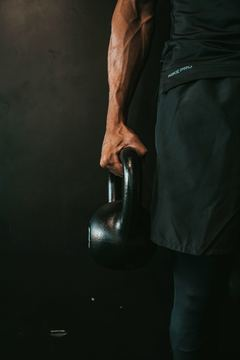
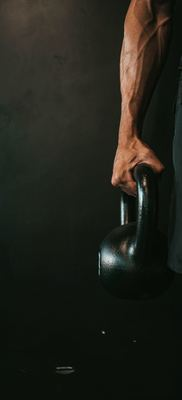
Version 1.7.24 - Accueil : message manuscrit selon le contexte, tuile active −25 %, fond Poigne recadré
Claude-Session: https://claude.ai/code/session_01D2bERWTgERYu2wXoWahCrG

diff --git a/js/programmes.js b/js/programmes.js
@@ -80,7 +80,7 @@ function renderProgramOverview() {
   const active = getActiveProgram();
   const others = programs.filter(p => p !== active);
   // Les tuiles sont alignées vers le bas de l'écran, au-dessus de la barre de navigation (maquette)
-  let html = '<div class="prog-spacer" aria-hidden="true"></div>';
+  let html = programGreetingHtml(active) + '<div class="prog-spacer" aria-hidden="true"></div>';
   if (active) {
     html += `<div class="prog-status"><span class="prog-dot on"></span>${isLibre(active) ? 'Active' : 'Actif'}</div>`; // 1.7.20 : « Actif » / « Active » (séance libre)
     html += activeTileHtml(active);
@@ -100,6 +100,30 @@ function renderProgramOverview() {
   html += `<p class="prog-hint"><span class="prog-hint-ico">${INFO_SVG}</span>Astuce : Reste appuyé sur un programme pour entrer en mode édition</p>`; // 1.7.21 : (i) + « Astuce : »
   container.innerHTML = html;
   bindLongPress(container);
+}
+
+// Message d'accueil manuscrit (1.7.24) : « Bonjour » ou « Bonsoir » selon l'heure, puis une phrase selon le contexte
+// (séance déjà faite aujourd'hui, retour après une pause, déload, pas de programme actif, sinon motivation).
+function programGreeting(active, now = new Date()) {
+  const h = now.getHours();
+  const hello = (h >= 5 && h < 18) ? 'Bonjour' : 'Bonsoir';
+  const hist = (typeof state !== 'undefined' && state && Array.isArray(state.history)) ? state.history : [];
+  const today = now.toISOString().slice(0, 10);
+  const last = hist.length ? hist[hist.length - 1].date : null;
+  const daysSince = last ? Math.floor((new Date(today) - new Date(last)) / 86400000) : null;
+  let line;
+  if (!active) line = 'Choisis ton programme, et c\'est parti !';
+  else if (last === today) line = 'Belle séance aujourd\'hui. Place à la récup !';
+  else if (daysSince !== null && daysSince >= 10) line = 'Content de te revoir ! On s\'y remet ?';
+  else if (!isLibre(active) && typeof checkDeloadStatus === 'function' && checkDeloadStatus()) line = 'Semaine légère : on récupère pour mieux repartir.';
+  else if (!hist.length) line = 'Prêt pour ta première séance ?';
+  else line = 'Prêt à te dépasser aujourd\'hui ?';
+  return { hello, line };
+}
+
+function programGreetingHtml(active) {
+  const g = programGreeting(active);
+  return `<p class="prog-greet"><span class="prog-greet-hello">${g.hello},</span><span class="prog-greet-line">${escapeHtml(g.line)}</span></p>`;
 }
 
 function emptyProgramsHtml() {
@@ -122,19 +146,23 @@ function activeTileHtml(p) {
   const deloadHtml = checkDeloadStatus() ? `<span class="deload-pill">${BOLT_SVG}Déload actif · −20 %</span>` : '';
   // Tuile : pictogramme du type + nom du programme (ou de la séance libre) en grand ; pastille et nom de la
   // prochaine séance en petit (programme seulement) ; exercices et séries ; « + de détail » et démarrer.
+  // 1.7.24 : programme — la pastille déload se place au bout de la ligne de la prochaine séance (pas de ligne en plus)
+  const deloadInline = !libre && deloadHtml ? `<span class="deload-pill deload-inline">${BOLT_SVG}Déload −20 %</span>` : '';
   const nextLine = libre ? '' : `
-      <div class="prog-tile-next">${programPillHtml(p, session.key, 'tiny')}<span>${escapeHtml(sessionLabel(p, session))}</span></div>`;
+      <div class="prog-tile-next">${programPillHtml(p, session.key, 'tiny')}<span class="prog-tile-session">${escapeHtml(sessionLabel(p, session))}</span>${deloadInline}</div>`;
+  // 1.7.24 : tuile compacte (−25 % de hauteur, mêmes informations) — démarrer à droite du nom,
+  // exercices · séries et « + de détail » sur la dernière ligne.
   return `
     <div class="next-card prog-tile${libre ? ' libre' : ''}" data-lp="${escapeHtml(p.id)}">
       <div class="prog-tile-top">
         ${libre ? '<span class="prog-ico libre">1×</span>' : `<span class="prog-ico">${SWAP_SVG}</span>`}
         <span class="session-name prog-tile-name">${escapeHtml(p.name)}</span>
-      </div>${nextLine}
-      <span class="next-card-count">${nEx} exercice${nEx > 1 ? 's' : ''} · ${nSets} série${nSets > 1 ? 's' : ''}</span>
-      ${deloadHtml}
-      <div class="next-card-row">
-        <button type="button" class="prog-detail-btn" aria-expanded="${programDetailOpen}" onclick="toggleProgramDetail()">${programDetailOpen ? '- de détail' : '+ de détail'}</button>
         <button type="button" class="btn-start${libre ? ' libre' : ''}" aria-label="Démarrer la séance" onclick="switchTab('seance')">${ARROW_SVG}</button>
+      </div>${nextLine}
+      ${libre ? deloadHtml : ''}
+      <div class="next-card-row prog-tile-foot">
+        <span class="next-card-count">${nEx} exercice${nEx > 1 ? 's' : ''} · ${nSets} série${nSets > 1 ? 's' : ''}</span>
+        <button type="button" class="prog-detail-btn" aria-expanded="${programDetailOpen}" onclick="toggleProgramDetail()">${programDetailOpen ? '- de détail' : '+ de détail'}</button>
       </div>
     </div>`;
 }

diff --git a/style.css b/style.css
@@ -564,9 +564,14 @@ body[data-tab="programme"][data-pview="choose"] header h1 { display: none; }
 .prog-tile { margin-top: 0; user-select: none; -webkit-user-select: none; -webkit-touch-callout: none; touch-action: manipulation; transition: transform 0.45s ease; }
 .prog-tile.pressing, .mem-tile.pressing { transform: scale(0.97); }
 .prog-tile-top { display: flex; align-items: center; gap: 12px; }
+/* 1.7.24 : tuile active compacte (−25 %) — démarrer à droite du nom, compteur et « + de détail » en bas */
+.next-card.prog-tile { gap: 0; }
+.prog-tile-foot { justify-content: space-between; }
+.prog-tile .prog-tile-foot .next-card-count { margin-top: 0; min-width: 0; }
 .prog-tile-name { flex: 1; min-width: 0; overflow: hidden; text-overflow: ellipsis; white-space: nowrap; }
-.prog-tile-next { display: flex; align-items: center; gap: 8px; min-width: 0; margin-top: 12px; font-size: 0.9375rem; font-weight: 600; color: var(--pill-ink); }
-.prog-tile-next span:last-child { min-width: 0; overflow: hidden; text-overflow: ellipsis; white-space: nowrap; }
+.prog-tile-next { display: flex; align-items: center; gap: 8px; min-width: 0; margin-top: 14px; font-size: 0.9375rem; font-weight: 600; color: var(--pill-ink); }
+.prog-tile-next .prog-tile-session { flex: 1; min-width: 0; overflow: hidden; text-overflow: ellipsis; white-space: nowrap; }
+.prog-tile .deload-pill.deload-inline { flex: none; margin: 0 0 0 auto; padding: 3px 10px; font-size: 0.8125rem; gap: 6px; }
 .prog-ico { flex: none; width: 40px; height: 40px; border-radius: 50%; background: var(--pill-ico); color: var(--pill-ink); display: flex; align-items: center; justify-content: center; }
 .prog-ico svg, .mem-ico svg { width: 20px; height: 20px; fill: none; stroke: currentColor; stroke-width: 2; stroke-linecap: round; stroke-linejoin: round; }
 .prog-ico.dark { width: 44px; height: 44px; background: var(--primary-strong); color: var(--on-strong); }
@@ -574,6 +579,7 @@ body[data-tab="programme"][data-pview="choose"] header h1 { display: none; }
 .prog-tile .next-card-count { margin-top: 6px; }
 .prog-tile .deload-pill { margin-top: 10px; }
 .prog-tile .next-card-row { align-items: center; margin-top: 16px; }
+.prog-tile .deload-pill { margin-top: 12px; }
 .prog-detail-btn { height: 44px; padding: 0 18px; border: none; border-radius: 999px; background: var(--pill-ico); color: var(--pill-ink); font: inherit; font-size: 0.9063rem; font-weight: 600; cursor: pointer; }
 .prog-tile.libre { background: var(--sand); color: var(--sand-ink); }
 .prog-tile.libre .next-card-count { color: var(--sand-muted); }
@@ -852,3 +858,11 @@ body[data-tab="fond"] .page-title-row { margin-top: 10px; }
 .invite-qr { width: 220px; max-width: 70vw; margin: 4px auto 12px; padding: 14px; box-sizing: border-box; border-radius: 20px; background: #FFFFFF; box-shadow: var(--sh-card); }
 .invite-qr svg { display: block; width: 100%; height: auto; }
 .invite-link { margin: 0 0 6px; font-size: 0.8125rem; line-height: 1.4; color: var(--text-muted); text-align: center; overflow-wrap: anywhere; }
+
+/* ============================================
+   Accueil Programmes : message manuscrit (1.7.24)
+   ============================================ */
+.prog-greet { max-width: 94%; margin: 6px 0 0; font-family: 'Caveat', 'Segoe Print', 'Bradley Hand', cursive; font-weight: 600; line-height: 1.05; color: var(--text); transform: rotate(-2deg); transform-origin: left top; }
+.prog-greet-hello, .prog-greet-line { font-family: inherit; } /* « * » impose la police du texte à chaque élément */
+.prog-greet-hello { display: block; font-size: 2.5rem; }
+.prog-greet-line { display: block; margin-top: 2px; font-size: 1.75rem; }

diff --git a/sw.js b/sw.js
@@ -2,7 +2,7 @@
 // APP_VERSION doit être incrémenté à chaque release (en même temps que
 // manifest.json) : le navigateur ne réinstalle le service worker que si
 // le contenu de ce fichier change.
-const APP_VERSION = '1.7.23';
+const APP_VERSION = '1.7.24';
 const CACHE_NAME = 'suivi-fitness-' + APP_VERSION;
 const ASSETS = [
   './',
@@ -22,6 +22,7 @@ const ASSETS = [
   './fonts/figtree-latin-400-normal.woff2',
   './fonts/figtree-latin-500-normal.woff2',
   './fonts/figtree-latin-600-normal.woff2',
+  './fonts/caveat-latin-600-normal.woff2',
   './wallpapers/course.jpg',
   './wallpapers/course-mini.jpg',
   './wallpapers/barre.jpg',

diff --git a/css/fonts.css b/css/fonts.css
@@ -44,3 +44,12 @@
   font-display: swap;
   src: url('../fonts/figtree-latin-600-normal.woff2') format('woff2');
 }
+
+/* Caveat 600 (1.7.24) : message d'accueil manuscrit. Licence SIL Open Font License 1.1, paquet npm @fontsource/caveat. */
+@font-face {
+  font-family: 'Caveat';
+  font-style: normal;
+  font-weight: 600;
+  font-display: swap;
+  src: url('../fonts/caveat-latin-600-normal.woff2') format('woff2');
+}

diff --git a/tests/test_accueil.py b/tests/test_accueil.py
@@ -1,0 +1,49 @@
+"""Accueil Programmes (1.7.24) : message manuscrit selon l'heure et le contexte ; tuile active compacte (−25 %), mêmes informations."""
+import sys
+from pathlib import Path
+sys.path.insert(0, str(Path(__file__).resolve().parent))
+from harness import Srv, newpage, sync_playwright, OVERFLOW_JS
+
+OK = True
+def check(label, cond, detail=''):
+    global OK
+    print(('  OK  ' if cond else '  ÉCHEC ') + label + ('' if cond else f'  -> {detail}'))
+    OK = OK and bool(cond)
+
+G = "(d, hist, act) => { state.history = hist; const g = programGreeting(act === 'none' ? null : getActiveProgram(), new Date(d)); return g.hello + ' | ' + g.line; }"
+with Srv() as base, sync_playwright() as p:
+    br = p.chromium.launch()
+    for w in (390, 360):
+        ctx, pg, errs = newpage(br, w=w)
+        pg.goto(base + 'index.html'); pg.wait_for_timeout(1200)
+        check(f"[{w}px] message manuscrit (Caveat) en haut de l'accueil", pg.locator('#tab-programme .prog-greet').count() == 1
+              and 'Caveat' in pg.evaluate("getComputedStyle(document.querySelector('.prog-greet-hello')).fontFamily")
+              and pg.evaluate("[...document.fonts].some(f=>f.family.includes('Caveat')&&f.status==='loaded')"))
+        tile = pg.evaluate("""(()=>{const t=document.querySelector('.prog-tile');return {h:Math.round(t.getBoundingClientRect().height), txt:t.innerText,
+            start:!!t.querySelector('.prog-tile-top .btn-start'), det:!!t.querySelector('.prog-tile-foot .prog-detail-btn'), next:!!t.querySelector('.prog-tile-next .prog-tile-session'),
+            deload:!!t.querySelector('.deload-inline')}})()""")
+        check(f"[{w}px] tuile active ≤ 75 % de l'ancienne hauteur (278 px), déload compris", tile['h'] <= 209, tile['h'])
+        check(f"[{w}px] mêmes informations : nom, démarrer, prochaine séance, exercices · séries, + de détail, déload",
+              tile['start'] and tile['det'] and tile['next'] and 'exercice' in tile['txt'] and 'série' in tile['txt'] and ('Déload' in tile['txt']) == tile['deload'], tile)
+        ov = pg.evaluate(OVERFLOW_JS)
+        check(f"[{w}px] rien ne déborde", ov['docW'] <= ov['vw'] and not ov['out'], ov)
+        check(f"[{w}px] aucune erreur JavaScript", not errs, errs)
+        if w == 390:
+            today = pg.evaluate("new Date().toISOString().slice(0,10)")
+            def g(d, hist, act='on'): return pg.evaluate(f"([d,h,a]) => ({G})(d,h,a)", [d, hist, act])
+            check("9 h : « Bonjour »", g('2026-11-09T09:00:00', [{'date': '2026-11-07'}]).startswith('Bonjour |'))
+            check("20 h : « Bonsoir »", g('2026-11-09T20:00:00', [{'date': '2026-11-07'}]).startswith('Bonsoir |'))
+            check("2 h du matin : « Bonsoir »", g('2026-11-09T02:00:00', [{'date': '2026-11-07'}]).startswith('Bonsoir |'))
+            check("séance déjà faite aujourd'hui : récup", 'récup' in g('2026-11-09T12:00:00', [{'date': '2026-11-09'}]))
+            check("10 jours sans séance : « Content de te revoir »", 'revoir' in g('2026-11-20T12:00:00', [{'date': '2026-11-09'}]))
+            check("aucune séance encore : « première séance »", 'première séance' in g('2026-11-09T12:00:00', []))
+            check("pas de programme actif : « Choisis ton programme »", 'Choisis ton programme' in g('2026-11-09T12:00:00', [{'date': '2026-11-07'}], 'none'))
+            l = g('2026-11-09T12:00:00', [{'date': '2026-11-07'}])
+            check("sinon : « Prêt à te dépasser » (ou semaine légère en déload)", ('dépasser' in l) or ('Semaine légère' in l), l)
+        ctx.close()
+    br.close()
+from PIL import Image
+im = Image.open(Path(__file__).resolve().parent.parent / 'wallpapers' / 'poigne.jpg')
+check("Poigne recadrée (logo du short hors cadre)", im.size[0] / im.size[1] < 0.5, im.size)
+print('\nTOUS LES TESTS PASSENT' if OK else '\nÉCHECS')
+sys.exit(0 if OK else 1)

diff --git a/tests/run_tests.py b/tests/run_tests.py
@@ -3,7 +3,7 @@ import subprocess, sys
 from pathlib import Path
 
 HERE = Path(__file__).resolve().parent
-TESTS = ['test_validation.py', 'test_rameur.py', 'test_drive_reset.py', 'test_progression_jours.py', 'test_supprimer_seance.py', 'test_annuler_seance.py', 'test_brouillon.py', 'test_poids_brouillon.py', 'test_chrono.py', 'test_mise_a_jour.py', 'test_reglages.py', 'test_drive_compte.py', 'test_drive_sauvegarde.py', 'test_drive_versions.py', 'test_drive_installee.py', 'test_drive_android.py', 'test_programmes.py', 'test_editeur_deplacer.py', 'test_fond_ecran.py', 'test_invitation.py', 'test_mise_en_page.py']
+TESTS = ['test_validation.py', 'test_rameur.py', 'test_drive_reset.py', 'test_progression_jours.py', 'test_supprimer_seance.py', 'test_annuler_seance.py', 'test_brouillon.py', 'test_poids_brouillon.py', 'test_chrono.py', 'test_mise_a_jour.py', 'test_reglages.py', 'test_drive_compte.py', 'test_drive_sauvegarde.py', 'test_drive_versions.py', 'test_drive_installee.py', 'test_drive_android.py', 'test_programmes.py', 'test_editeur_deplacer.py', 'test_fond_ecran.py', 'test_invitation.py', 'test_accueil.py', 'test_mise_en_page.py']
 
 echecs = []
 for t in TESTS:

diff --git a/tests/README.md b/tests/README.md
@@ -26,6 +26,7 @@ Un test seul : `python3 tests/test_validation.py`.
 | `test_drive_android.py` | 18 | Application installée sur Android : la connexion Google s'ouvre dans le navigateur qui l'a installée — Chrome : intent vers le vrai Chrome (repli https) ; Firefox / Samsung Internet : nouvel onglet du même navigateur, jamais Chrome ; jeton repris par l'application plein écran ; onglet bloqué : message sans page blanche ; navigateur et bureau inchangés |
 | `test_programmes.py` | 88 | Programmes sur mesure : migration « Hypertrophie » (tonnage identique, noms du catalogue, copie d'origine), création / activation / pause / « Nouveau », séances A à F, séance libre, appui long, suppression (historique conservé), poids du corps + lest, cardio km/h, durée, rotation, déload reporté, Séance vide, Progression par programme, filtres de l'Historique, restauration de programmes, import d'une sauvegarde 1.6, débordements 390 / 360 px clair et sombre |
 | `test_editeur_deplacer.py` | 26 | Éditeur : plus de poignée de glisser-déposer ; menu ⋮ ouvert après Monter / Descendre, qui suit l'exercice ; « Fermer » ; 390 et 360 px |
+| `test_accueil.py` | 19 | Accueil Programmes : message manuscrit (Bonjour / Bonsoir, phrase selon le contexte), tuile active ≤ 75 % de l'ancienne hauteur avec les mêmes informations, 390 et 360 px ; fond Poigne recadré |
 | `test_invitation.py` | 23 | Réglages › Inviter quelqu'un : carte, fenêtre avec QR code lisible (décodé), lien de l'application, copie / partage, Fermer, clair et sombre ; astuce (i) ; « En mémoire » vide centré |
 | `test_fond_ecran.py` | 20 | Réglages › Fond d'écran : ligne sous Apparence, page avec 6 choix, application immédiate sur toutes les pages, mémorisé et posé avant le premier affichage, voile sombre en thème sombre, « Aucun », valeur inconnue ignorée, hors des données sauvegardées, images en cache |
 | `test_mise_en_page.py` | 12 | À 360 et 390 px, thèmes clair et sombre : aucun débordement sur les 5 pages, noms d'exercice sur une ligne, aucune erreur JavaScript |

diff --git a/CHANGELOG.md b/CHANGELOG.md
@@ -7,6 +7,16 @@ et ce projet respecte [Semantic Versioning](https://semver.org/spec/v2.0.0.html)
 
 ---
 
+## [1.7.24] - 2026-11-09
+### ✨ Accueil Programmes : message manuscrit et tuile compacte (co-auteur : Claude)
+- **Message d'accueil manuscrit** en haut de l'onglet Programmes (police Caveat, licence OFL, hébergée avec l'app pour fonctionner hors connexion) : « Bonjour, » (5 h – 18 h) ou « Bonsoir, », puis une phrase selon le contexte — séance déjà faite aujourd'hui (« Belle séance aujourd'hui. Place à la récup ! »), retour après 10 jours ou plus (« Content de te revoir ! On s'y remet ? »), semaine de déload, pas encore de séance, pas de programme actif, sinon « Prêt à te dépasser aujourd'hui ? ».
+- **Tuile active −25 % de hauteur** (278 → 206 px avec le déload), sans perte d'information : bouton démarrer à droite du nom, pastille « Déload −20 % » au bout de la ligne de la prochaine séance, « exercices · séries » et « + de détail » sur la dernière ligne.
+- **Fond Poigne** recadré : le logo du short n'est plus dans l'image.
+- Test : `test_accueil.py` (19 contrôles).
+- `manifest.json` et `APP_VERSION` (`sw.js`) alignés sur 1.7.24.
+
+---
+
 ## [1.7.23] - 2026-11-09
 ### 🎨 4 nouveaux fonds d'écran (co-auteur : Claude)
 - **Réglages › Fond d'écran** : Râtelier (kettlebells colorées), Squat, Poigne et Disques s'ajoutent à Course, Barre, Haltères, Kettlebell et Studio — 9 images + « Aucun ». Images en 1000 px + vignettes, mises en cache pour fonctionner hors connexion.
